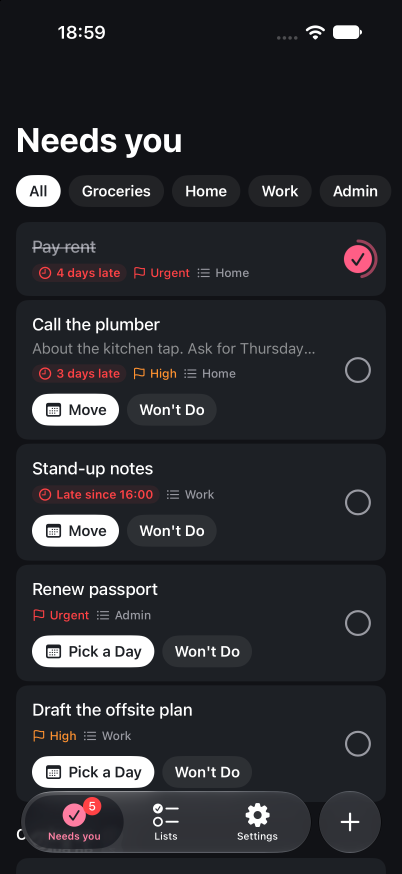
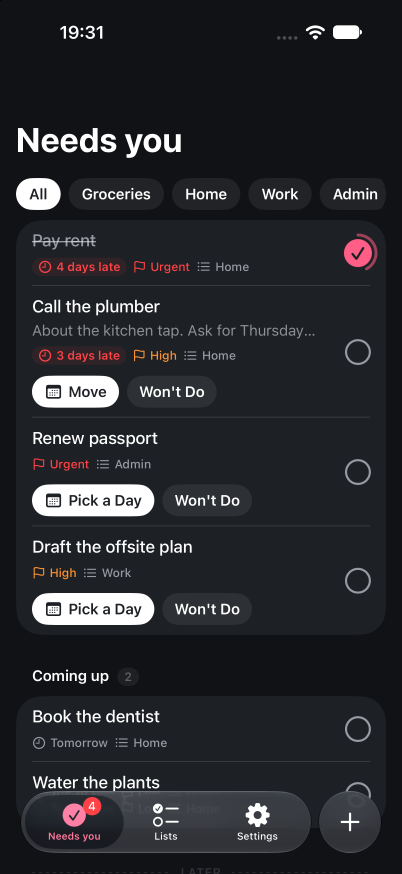
feat(tasks): group the rows into one card per band or section
A task is no longer a card of its own. On Needs you each band is one card
with hairlines between its rows, and a list has one for To Do and one for
Done, the system's inset grouped list under both. The open task beside
its detail is a tinted row rather than an outlined card, and the chips
start at the cards' edge and scroll off the screen's.

diff --git a/apps/tasks/apple/UI/Views/TaskListView.swift b/apps/tasks/apple/UI/Views/TaskListView.swift
@@ -5,9 +5,10 @@ import SubstrateUI
 import SwiftUI
 import TasksCore
 
-/// Lists retain native selection, swipe actions and manual reordering.
-/// Needs you draws its chips above the rows, its bands under their
-/// headings, and the Later band faded under a fold.
+/// Lists retain native selection, swipe actions and manual reordering. The
+/// rows sit in one card per section, hairlines between them: To Do and Done
+/// in a list; on Needs you one card per band under its heading, the chips
+/// above and the Later band faded under a fold.
 struct TaskListView: View {
     @Environment(TasksShell.self) private var shell
     @Environment(\.horizontalSizeClass) private var sizeClass
@@ -19,7 +20,7 @@ struct TaskListView: View {
 
     var body: some View {
         List(selection: selection) { rows }
-            .listStyle(.plain)
+            .grouped()
             .scrollContentBackground(.hidden)
             .background { TasksSymbols.screen }
             .navigationTitle(list.title)
@@ -55,61 +56,73 @@ struct TaskListView: View {
 
     @ViewBuilder
     private var rows: some View {
-        if let empty = list.empty, list.closed.rows.isEmpty {
-            VStack(spacing: 16) {
-                Image(systemName: "checkmark.circle")
-                    .font(.largeTitle)
-                    .foregroundStyle(.secondary)
-                    .accessibilityHidden(true)
-                Text(empty.title).font(.title2.weight(.semibold))
-                Text(empty.message)
-                    .foregroundStyle(.secondary)
-                    .multilineTextAlignment(.center)
-                NewTaskButton(title: list.newTask)
-            }
-            .frame(maxWidth: .infinity)
-            .padding(.vertical, 24)
-            .plainRow(top: 32, bottom: 24)
-        }
         if !list.chips.isEmpty {
-            ChipsBar(chips: list.chips)
-                .listRowBackground(Color.clear)
-                .listRowSeparator(.hidden)
-                .listRowInsets(EdgeInsets(top: 0, leading: 0, bottom: 6, trailing: 0))
+            Section {
+                // Pulled out past the card's margin, so the chips start at
+                // the cards' edge and scroll off the screen's.
+                ChipsBar(chips: list.chips)
+                    .listRowBackground(Color.clear)
+                    .listRowSeparator(.hidden)
+                    .listRowInsets(EdgeInsets(top: 0, leading: -20, bottom: 0, trailing: -20))
+            }
+            .tight()
+        }
+        if let empty = list.empty, list.closed.rows.isEmpty {
+            Section {
+                VStack(spacing: 16) {
+                    Image(systemName: "checkmark.circle")
+                        .font(.largeTitle)
+                        .foregroundStyle(.secondary)
+                        .accessibilityHidden(true)
+                    Text(empty.title).font(.title2.weight(.semibold))
+                    Text(empty.message)
+                        .foregroundStyle(.secondary)
+                        .multilineTextAlignment(.center)
+                    NewTaskButton(title: list.newTask)
+                }
+                .frame(maxWidth: .infinity)
+                .padding(.vertical, 24)
+                .plainRow(top: 32, bottom: 24)
+            }
         }
         if !list.bands.isEmpty {
             if let clear = list.clear {
-                Label(clear, systemImage: "checkmark.circle")
-                    .font(.subheadline)
-                    .foregroundStyle(.secondary)
-                    .plainRow(top: 8, bottom: 6)
+                Section {
+                    Label(clear, systemImage: "checkmark.circle")
+                        .font(.subheadline)
+                        .foregroundStyle(.secondary)
+                        .plainRow(top: 8, bottom: 0)
+                }
+                .tight()
             }
             ForEach(list.bands, id: \.band) { band in
                 Section {
+                    ForEach(list.open.rows.filter { $0.band == band.band }) { row in rowView(row) }
+                } header: {
                     if band.band == .upcoming {
                         heading(band.title, count: band.count, note: nil)
                     } else if band.band == .later {
                         fold(band.title)
                     }
-                    ForEach(list.open.rows.filter { $0.band == band.band }) { row in rowView(row) }
                 }
             }
         } else if !list.open.rows.isEmpty {
             Section {
+                ForEach(list.open.rows) { row in rowView(row) }
+                    .onMove(perform: reorder)
+            } header: {
                 if list.showsClosed, !list.closed.rows.isEmpty {
                     heading(list.openTitle, count: nil, note: list.orderNote)
                 } else if let note = list.orderNote {
-                    Text(note).font(.footnote).foregroundStyle(.secondary)
-                        .plainRow(top: 4, bottom: 2)
+                    Text(note).font(.footnote).foregroundStyle(.secondary).textCase(nil)
                 }
-                ForEach(list.open.rows) { row in rowView(row) }
-                    .onMove(perform: reorder)
             }
         }
         if list.showsClosed, !list.closed.rows.isEmpty {
             Section {
-                heading(list.closedTitle, count: list.closed.rows.count, note: nil)
                 ForEach(list.closed.rows) { row in rowView(row) }
+            } header: {
+                heading(list.closedTitle, count: list.closed.rows.count, note: nil)
             }
         }
     }
@@ -118,7 +131,7 @@ struct TaskListView: View {
     private func heading(_ title: String, count: Int?, note: String?) -> some View {
         VStack(alignment: .leading, spacing: 4) {
             HStack(alignment: .firstTextBaseline, spacing: 8) {
-                Text(title).font(.subheadline.weight(.semibold))
+                Text(title).font(.subheadline.weight(.semibold)).foregroundStyle(Color.primary)
                 if let count {
                     Text(count, format: .number)
                         .font(.caption.weight(.semibold))
@@ -130,7 +143,8 @@ struct TaskListView: View {
             }
             if let note { Text(note).font(.footnote).foregroundStyle(.secondary) }
         }
-        .plainRow(top: 12, bottom: 2)
+        .textCase(nil)
+        .padding(.top, 4)
     }
 
     /// The Later band's fold: its name between two dashed lines.
@@ -143,22 +157,26 @@ struct TaskListView: View {
                 .foregroundStyle(.tertiary)
             Line()
         }
-        .plainRow(top: 18, bottom: 8)
+        .textCase(nil)
+        .padding(.top, 10)
+        .padding(.bottom, 2)
         .accessibilityElement(children: .combine)
     }
 
-    /// A card that opens its task, beside its round mark; the open task's
-    /// card is outlined.
+    /// A row of its section's card that opens its task, beside its round
+    /// mark; the open task's row is washed with the accent.
     @ViewBuilder
     private func rowView(_ row: TaskRow) -> some View {
+        let selected = app.detail?.id == row.id
         Group {
             if sizeClass == .compact {
-                TaskRowView(row: row, open: { shell.send(.open(task: row.id)) }, selected: app.detail?.id == row.id)
+                TaskRowView(row: row, open: { shell.send(.open(task: row.id)) }, selected: selected)
             } else {
-                TaskRowView(row: row, selected: app.detail?.id == row.id).tag(row.id)
+                TaskRowView(row: row, selected: selected).tag(row.id)
             }
         }
-        .plainRow(top: 2, bottom: 2)
+        .listRowBackground(selected ? Color.brandAccent.opacity(0.08) : TasksSymbols.card)
+        .listRowInsets(EdgeInsets(top: 2, leading: 16, bottom: 2, trailing: 6))
         .swipeActions(edge: .leading) {
             Button(row.toggle) { shell.send(row.status == .open && !row.pending ? .complete(row.id) : .reopen(row.id)) }
                 .tint(.green)
@@ -319,7 +337,7 @@ private struct ChipsBar: View {
                     .accessibilityAddTraits(chip.selected ? .isSelected : [])
                 }
             }
-            .padding(.horizontal, 16)
+            .padding(.horizontal, 20)
             .padding(.vertical, 4)
         }
         .animation(.snappy(duration: 0.2), value: chips.map(\.selected))
@@ -349,10 +367,29 @@ extension EnvironmentValues {
 }
 
 private extension View {
-    /// A row with no list chrome: its own card, or bare words, on the screen.
+    /// A row with no list chrome: bare words on the screen.
     func plainRow(top: CGFloat, bottom: CGFloat) -> some View {
         listRowBackground(Color.clear)
             .listRowSeparator(.hidden)
             .listRowInsets(EdgeInsets(top: top, leading: 16, bottom: bottom, trailing: 16))
+    }
+
+    /// A section with no gap before it (the chips, the all-clear line).
+    func tight() -> some View {
+        #if os(iOS)
+        listSectionSpacing(0)
+        #else
+        self
+        #endif
+    }
+
+    /// One card per section, hairlines between its rows: the system's
+    /// inset grouped list on iOS, its inset list on the Mac.
+    func grouped() -> some View {
+        #if os(iOS)
+        listStyle(.insetGrouped)
+        #else
+        listStyle(.inset)
+        #endif
     }
 }

diff --git a/apps/tasks/apple/UI/Views/TaskRowView.swift b/apps/tasks/apple/UI/Views/TaskRowView.swift
@@ -3,12 +3,13 @@ import SubstrateUI
 import SwiftUI
 import TasksCore
 
-/// A task's card: its words on the left, which open it, and on the right
-/// the round mark, centred on the card, which completes it. The mark fills
-/// at once, with a ring that drains for the undo window, and a second tap
-/// within it takes the mark back; the card only leaves when the window
-/// closes and the write goes. On Needs you a late task's card also offers
-/// where to move it and Won't Do.
+/// A task's row in its band's or section's card: its words on the left,
+/// which open it, and on the right the round mark, centred on the row,
+/// which completes it. The mark fills at once, with a ring that drains for
+/// the undo window, and a second tap within it takes the mark back; the row
+/// only leaves when the window closes and the write goes. On Needs you a
+/// late task's row also offers where to move it and Won't Do. The card, the
+/// dividers and the open task's tint are the list's (`TaskListView`).
 struct TaskRowView: View {
     @Environment(TasksShell.self) private var shell
     @Environment(\.dynamicTypeSize) private var typeSize
@@ -34,24 +35,7 @@ struct TaskRowView: View {
             }
             mark
         }
-        .padding(.leading, 16)
-        .padding(.trailing, 6)
-        .padding(.vertical, 4)
-        .background {
-            RoundedRectangle(cornerRadius: 12, style: .continuous)
-                .fill(TasksSymbols.card.opacity(isOpen ? 1 : 0.6))
-        }
-        .overlay {
-            // The open task, beside its detail: a wash of the accent and a
-            // fine line, never an alarm.
-            if selected {
-                RoundedRectangle(cornerRadius: 12, style: .continuous)
-                    .fill(Color.brandAccent.opacity(0.06))
-                    .strokeBorder(Color.brandAccent.opacity(0.45), lineWidth: 1)
-                    .allowsHitTesting(false)
-            }
-        }
-        .opacity(row.band == .later ? 0.62 : 1)
+        .opacity(row.band == .later || !isOpen ? 0.62 : 1)
         .onChange(of: row.pending, initial: true) { _, pending in
             markedAt = pending ? Date() : nil
         }
@@ -117,7 +101,7 @@ struct TaskRowView: View {
                 decisions.padding(.top, 6)
             }
         }
-        .padding(.vertical, 10)
+        .padding(.vertical, 8)
         .frame(maxWidth: .infinity, minHeight: 44, alignment: .leading)
         .contentShape(.rect)
         .animation(.snappy(duration: 0.25), value: row.pending)
